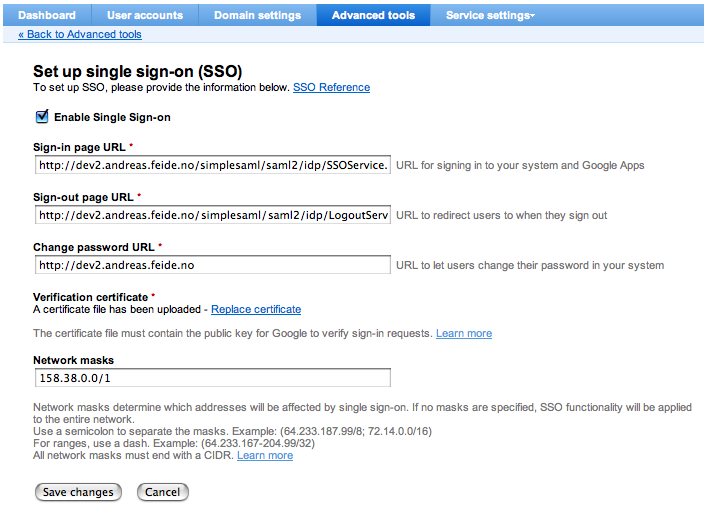
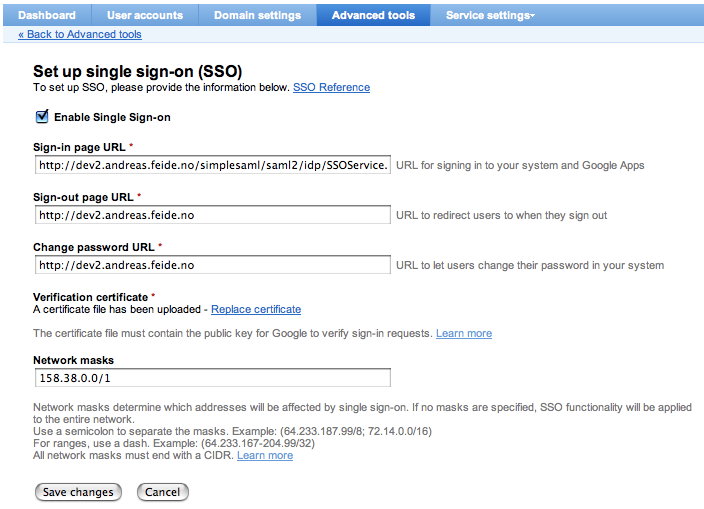
Google Workspace signout page is not SAML SLO

diff --git a/docs/simplesamlphp-googleapps.md b/docs/simplesamlphp-googleapps.md
@@ -196,15 +196,8 @@ like this:
 
 	https://dev2.andreas.feide.no/simplesaml/saml2/idp/SSOService.php
 
-You must also configure the IdP initiated Single LogOut endpoint of your server.
-You will find this in your metadata XML in the tag
-`<md:SingleLogoutService>`. It will look something like:
-
-	http://dev2.andreas.feide.no/simplesaml/saml2/idp/SingleLogoutService.php
-
-again, using the host name of your IdP server.
-
 The Sign-out page or change password URL can be static pages on your server.
+(Google does not support SAML Single Log Out.)
 
 The network mask determines which IP addresses will be asked for SSO login.
 IP addresses not matching this mask will be presented with the normal Google Workspace login page.
